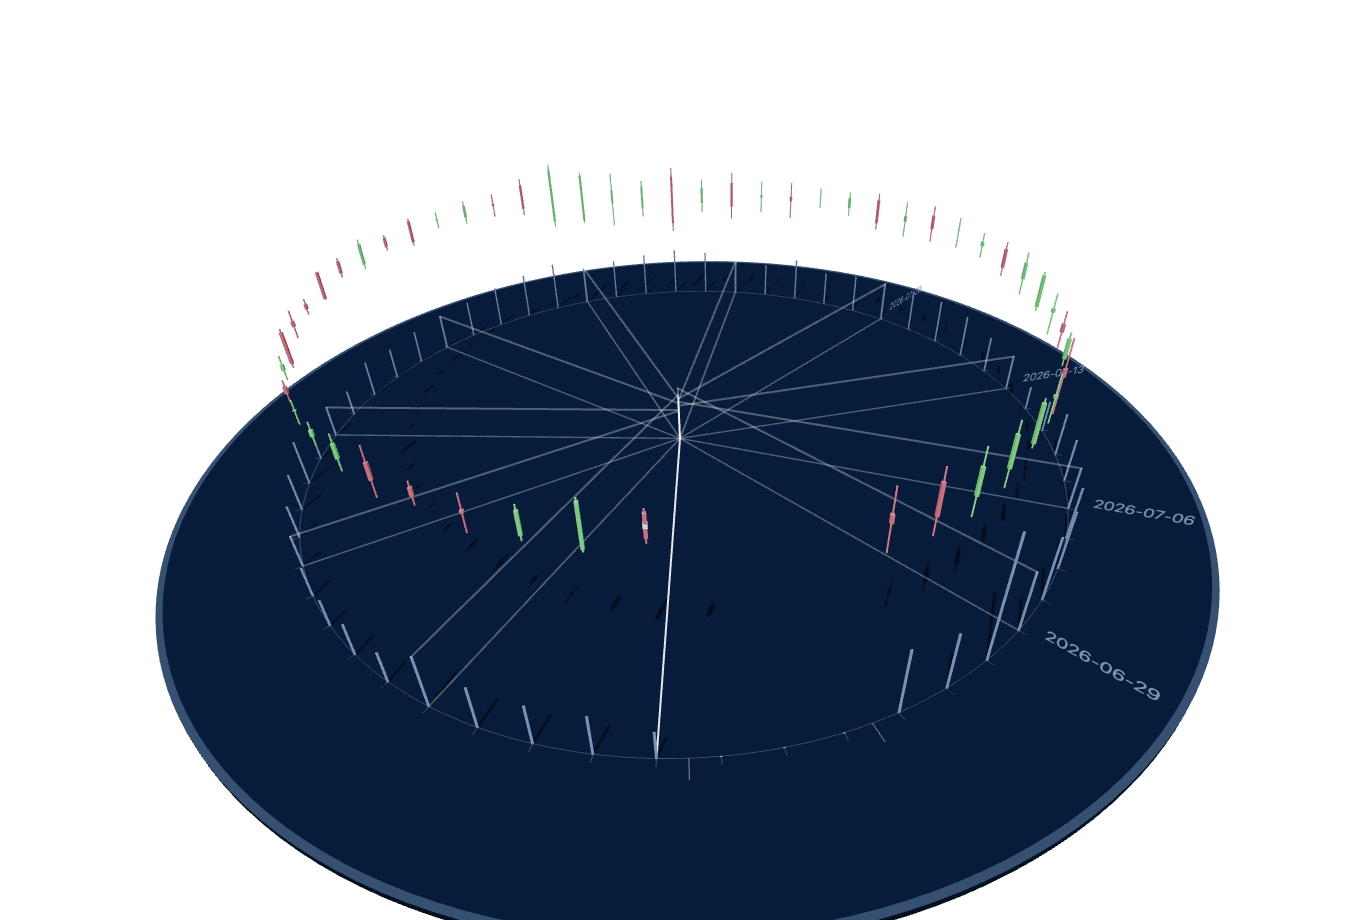
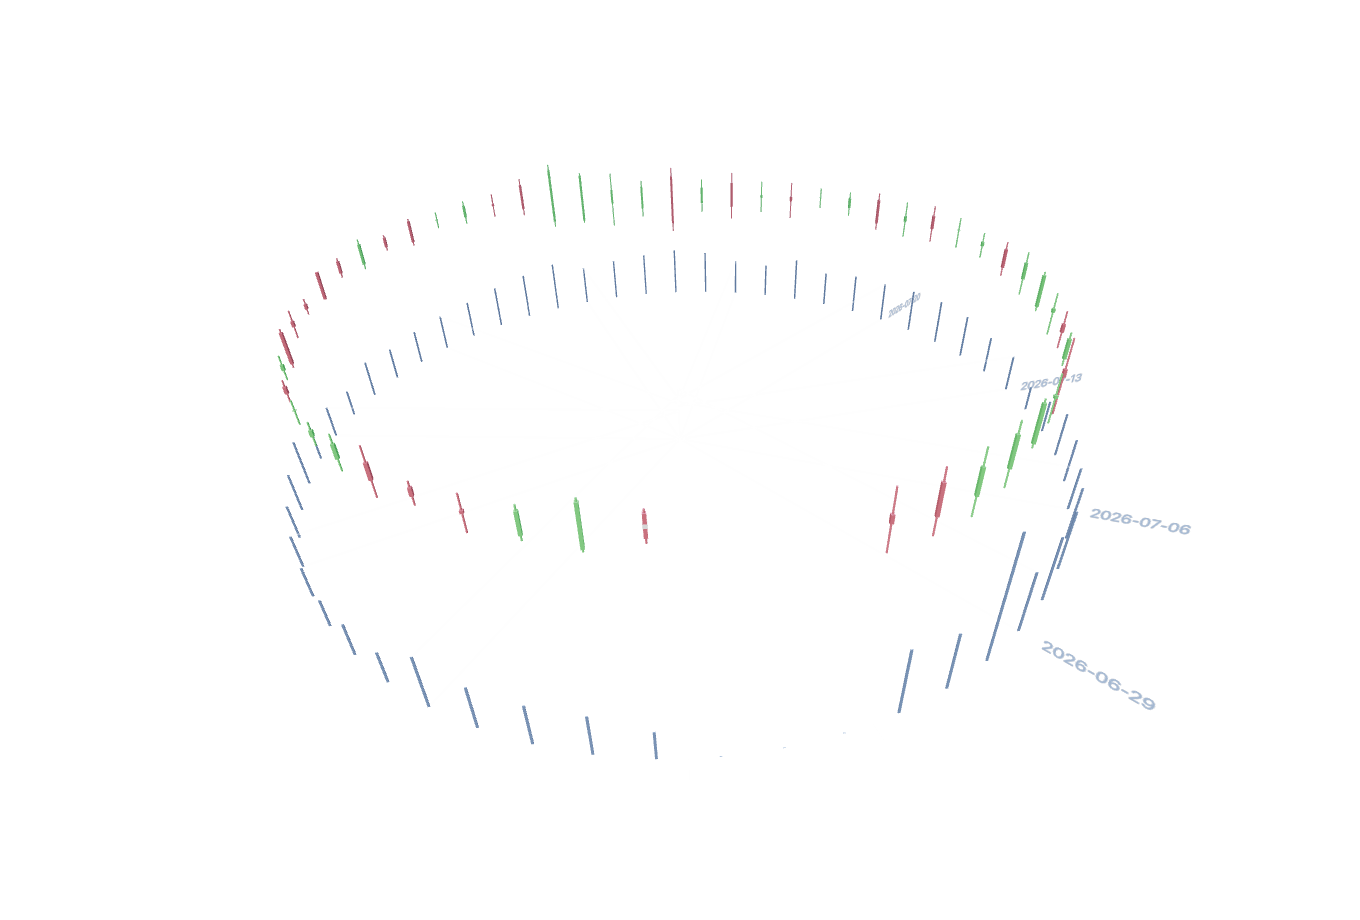
Take the plinth away and let the instrument stand on the page
The disc under the drum said the same thing as the dial rim twice, so
it goes: the top face, the side wall and the pale bevel band are gone,
and the ring stands on the page's own navy again, as it did before.

With no ground there is nothing for a shadow to fall on, so the whole
shadow path goes with it — the receiving plane, the shadow map and its
camera, every castShadow flag, and the two shadow-resolution steps of
the auto-downgrade, which now has one step: half the sway frames when a
window is really slower than its own fastest frame. The blade and label
lifts that only existed to clear the disc's top face go back to zero.

Kept: the key light from over the reader's left shoulder and the cold
rim light, which model the candle faces whether or not there is ground
under them, the slightly metallic bodies, and the swinging, leaning
camera. Fallback still and share card re-rendered; cache keys bumped.

diff --git a/index.html b/index.html
@@ -16,14 +16,14 @@
 <meta property="og:url" content="https://yiping-yin.github.io/">
 <meta property="og:title" content="Yiping Yin — quantitative research and trading">
 <meta property="og:description" content="Market microstructure, asset pricing and multi-agent market simulation at UNSW Sydney. 1st of 253 in the General round and 3rd in the Final technical ranking of Algothon 2026.">
-<meta property="og:image" content="https://yiping-yin.github.io/assets/og-image.png?v=20260907-plinth">
+<meta property="og:image" content="https://yiping-yin.github.io/assets/og-image.png?v=20260908-ring">
 <meta property="og:image:width" content="1200">
 <meta property="og:image:height" content="630">
 <meta property="og:image:alt" content="Yiping Yin — quantitative research and intelligent systems, beside a ring of daily S&amp;P 500 candlesticks read by a fixed pen.">
 <meta name="twitter:card" content="summary_large_image">
 <meta name="twitter:title" content="Yiping Yin — quantitative research and trading">
 <meta name="twitter:description" content="Market microstructure, asset pricing and multi-agent market simulation at UNSW Sydney. 1st of 253 in the General round and 3rd in the Final technical ranking of Algothon 2026.">
-<meta name="twitter:image" content="https://yiping-yin.github.io/assets/og-image.png?v=20260907-plinth">
+<meta name="twitter:image" content="https://yiping-yin.github.io/assets/og-image.png?v=20260908-ring">
 
 <script type="application/ld+json">
 {
@@ -55,7 +55,7 @@
 <script src="assets/site.js?v=pen-and-drum-1" defer></script>
 <link rel="preconnect" href="https://cdn.jsdelivr.net" crossorigin>
 <script type="importmap">{"imports":{"three":"https://cdn.jsdelivr.net/npm/three@0.169.0/build/three.module.js","three/addons/":"https://cdn.jsdelivr.net/npm/three@0.169.0/examples/jsm/"}}</script>
-<script type="module" src="assets/market-visual.mjs?v=pen-and-drum-5"></script>
+<script type="module" src="assets/market-visual.mjs?v=pen-and-drum-6"></script>
 </head>
 <body>
 <a class="skip-link" href="#main">Skip to content</a>
@@ -89,7 +89,7 @@
           <p class="hero-focus">Quantitative research<br>&amp; intelligent systems.</p>
           <div class="hero-actions"><a href="#research" class="hero-cta">Explore my research <span aria-hidden="true">↗</span></a></div>
         </div>
-        <figure class="hero-visual" aria-label="A ring of daily S&amp;P 500 candlesticks that advances one session per beat; the newest session sits under a fixed pen, standing on a plinth onto which the candles cast real shadows; the viewpoint drifts slowly. Fixed snapshot, not live.">
+        <figure class="hero-visual" aria-label="A ring of daily S&amp;P 500 candlesticks that advances one session per beat; the newest session sits under a fixed pen; the viewpoint drifts slowly. Fixed snapshot, not live.">
           <img class="market-fallback" src="assets/market-ring.png" alt="Static view of a ring of daily candlesticks with volume bars and date labels" width="1360" height="920">
           <canvas id="market-canvas" aria-hidden="true"></canvas>
           <figcaption class="market-caption is-pending"><span class="market-caption-source">S&amp;P 500 · daily · 2026-03-31 → 2026-09-04 · 52 of 110 sessions · captured 2026-09-06 · not live</span><span class="market-caption-session"><span class="market-caption-date">2026-09-04</span> · O 7750.19 · H 7750.19 · L 7706.12 · C 7718.60 · −0.38 % · ×8.7 vertical</span></figcaption>

diff --git a/README.md b/README.md
@@ -37,9 +37,9 @@ Preview at phone, tablet and desktop widths. Check the CV and report links, keyb
 
 ## Visual assets
 
-The hero visual is a drum of daily candlesticks read by a fixed pen. Candle bodies and wicks sit on an inner ring, volume bars on an outer ring, white blades run from the axis to the volume bar of the first session of each ISO week, and the same weeks carry date labels standing in vertical radial planes (a label fades in as its plane turns to the camera, so nothing reads mirrored). Around them a dial stands still in the world: a rim at the volume ring, one tick per slot, and two lines marking the three-slot gap. The whole instrument stands on a dark plinth: a key light from over the reader's left shoulder, 55° above the horizon, casts the bodies', wicks' and volume bars' real shadows across it, and a cold rim light from the far side picks out their edges. The camera dollies in without ever leaving the composition the still was designed as, and then the drum steps one session clockwise per beat — the oldest session dissolving into the gap while the newest is printed under the pen and the nib slides to its close. It stops at the end of the record rather than looping. Hovering a session widens it and swaps the caption's second line; dragging rocks the drum and settles on a tick; the canvas is a slider, so the arrow, Home and End keys step through the sessions and the space bar stops and starts the beat. The composition follows the hero of imc.com; the implementation is this repository's own.
+The hero visual is a drum of daily candlesticks read by a fixed pen. Candle bodies and wicks sit on an inner ring, volume bars on an outer ring, white blades run from the axis to the volume bar of the first session of each ISO week, and the same weeks carry date labels standing in vertical radial planes (a label fades in as its plane turns to the camera, so nothing reads mirrored). Around them a dial stands still in the world: a rim at the volume ring, one tick per slot, and two lines marking the three-slot gap. The instrument stands on the page itself, with nothing drawn under it: a key light from over the reader's left shoulder, 55° above the horizon, models the faces turned to the reader, and a cold rim light from the far side picks out their edges. The camera dollies in without ever leaving the composition the still was designed as, and then the drum steps one session clockwise per beat — the oldest session dissolving into the gap while the newest is printed under the pen and the nib slides to its close. It stops at the end of the record rather than looping. Hovering a session widens it and swaps the caption's second line; dragging rocks the drum and settles on a tick; the canvas is a slider, so the arrow, Home and End keys step through the sessions and the space bar stops and starts the beat. The composition follows the hero of imc.com; the implementation is this repository's own.
 
-The price series is the S&P 500 index (^GSPC) daily open, high, low, close and volume for 110 NYSE sessions ending 2026-09-04, captured from Yahoo Finance and embedded in `assets/market-data.mjs` alongside its `meta` record. It is illustrative only. To swap it, replace that file with any array of `{ label, open, high, low, close, volume }` rows with an even length of at least 8 and update `meta`. Every figure in the caption — the date range, the session count, the capture date and the ×8.7 vertical exaggeration — is derived from that file and the model's `GLYPH_RATIO` by `captionLines()`, and a test asserts that the copy in `index.html` equals the same function's output for the last session, so the caption cannot drift from the data. The eye is never quite still: it swings 14° either side of the design azimuth every 48 s and leans up to 2° toward the pointer, damped over a quarter of a second so it cannot overshoot, while the pen stays fixed on the dial and the newest session stays under it — only the viewpoint drifts. The scene honours `prefers-reduced-motion` (the drum at the end of the record, fully printed, with no beat, and both the swing and the lean switched off at the exact eye the composition was designed for), remembers where it had got to in `sessionStorage` so a second visit fades up instead of performing, draws every frame the swing needs while the canvas is on screen, and stops rendering while the canvas is offscreen or the page is hidden. Phones get a shorter one-line caption, no date labels, no ticks, no shadows and no lean, and draw the swing at 30 fps.
+The price series is the S&P 500 index (^GSPC) daily open, high, low, close and volume for 110 NYSE sessions ending 2026-09-04, captured from Yahoo Finance and embedded in `assets/market-data.mjs` alongside its `meta` record. It is illustrative only. To swap it, replace that file with any array of `{ label, open, high, low, close, volume }` rows with an even length of at least 8 and update `meta`. Every figure in the caption — the date range, the session count, the capture date and the ×8.7 vertical exaggeration — is derived from that file and the model's `GLYPH_RATIO` by `captionLines()`, and a test asserts that the copy in `index.html` equals the same function's output for the last session, so the caption cannot drift from the data. The eye is never quite still: it swings 14° either side of the design azimuth every 48 s and leans up to 2° toward the pointer, damped over a quarter of a second so it cannot overshoot, while the pen stays fixed on the dial and the newest session stays under it — only the viewpoint drifts. The scene honours `prefers-reduced-motion` (the drum at the end of the record, fully printed, with no beat, and both the swing and the lean switched off at the exact eye the composition was designed for), remembers where it had got to in `sessionStorage` so a second visit fades up instead of performing, draws every frame the swing needs while the canvas is on screen, and stops rendering while the canvas is offscreen or the page is hidden. Phones get a shorter one-line caption, no date labels, no ticks and no lean, and draw the swing at 30 fps.
 
 Section icons are [Heroicons](https://github.com/tailwindlabs/heroicons), distributed under the MIT license included at `assets/icons/LICENSE.txt`. The Susquehanna competition mark is documented in `assets/algothon-marks.provenance.txt` and identifies the Algothon host.
 
